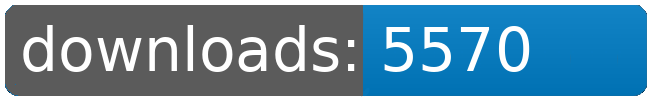
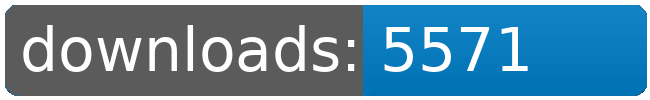
dl log written

Changed region(s): [[0.7692, 0.24, 0.8308, 0.72]]

diff --git a/README.md b/README.md
@@ -21,8 +21,8 @@
 		<td>5451</td>
 		<td>5493</td>
 		<td>5531</td>
-		<td>5570</td>
-		<td>+ 39</td>
+		<td>5571</td>
+		<td>+ 40</td>
 	</tr>
 	<tr>
 		<td>Factory.Outlets</td>
@@ -109,8 +109,8 @@
 		<td></td>
 		<td></td>
 		<td></td>
-		<td>44030</td>
-		<td>187</td>
+		<td>44031</td>
+		<td>188</td>
 	</tr>
 </table>
 </sub></sup>
@@ -157,8 +157,8 @@
 		<td>5451</td>
 		<td>5493</td>
 		<td>5531</td>
-		<td>5570</td>
-		<td>+ 39</td>
+		<td>5571</td>
+		<td>+ 40</td>
 	</tr>
 	<tr>
 		<td>Korunak.Defense.Drones</td>
@@ -223,8 +223,8 @@
 		<td></td>
 		<td></td>
 		<td></td>
-		<td>44030</td>
-		<td>187</td>
+		<td>44031</td>
+		<td>188</td>
 	</tr>
 </table>
 </sub></sup>
